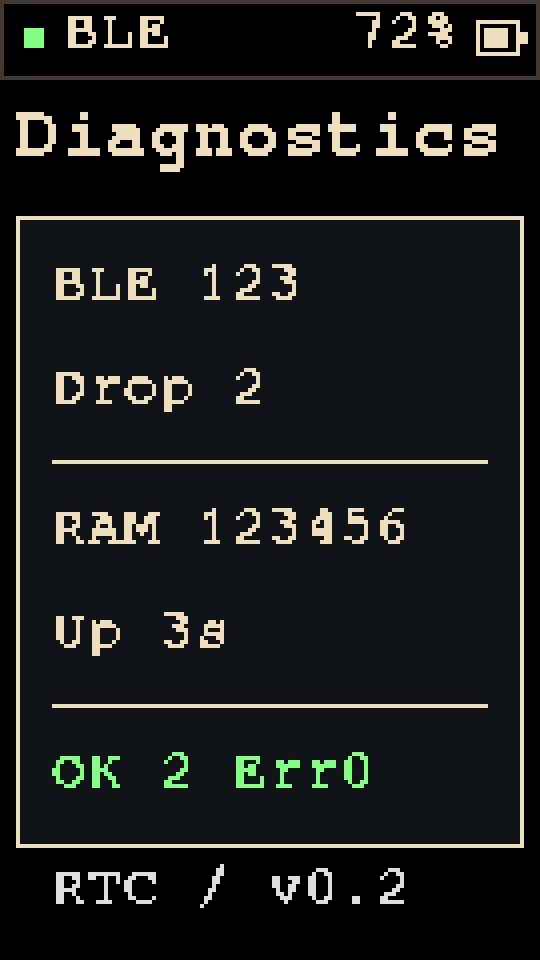
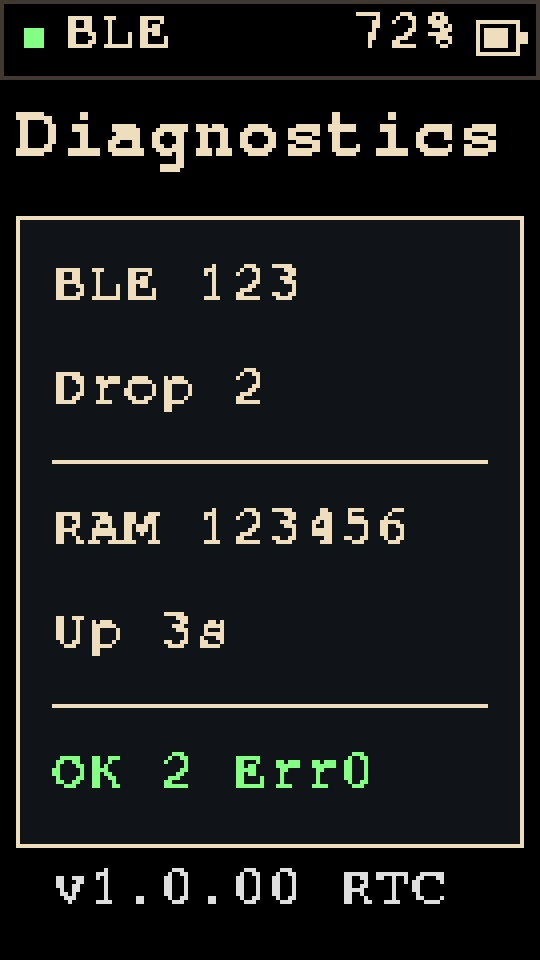
chore: release version 1.0.00
- Define the release label once for the firmware banner and Diagnostics.
- Freeze the initial release changelog and update versioned guides/previews.
- Record nineteen passing suites and the validated Plus2 build before tagging.

Changed region(s): [[0.3852, 0.9062, 0.8296, 0.9375], [0.2074, 0.9062, 0.3556, 0.9375], [0.0889, 0.9062, 0.1778, 0.9375]]

diff --git a/src/Ui.cpp b/src/Ui.cpp
@@ -11,6 +11,7 @@
 #include "Feedback.h"
 #include "MessageComposer.h"
 #include "InfoBot.h"
+#include "Version.h"
 #include <M5Unified.h>
 #include "assets/UiBitmaps.h"
 #include "assets/UiFonts.h"
@@ -447,7 +448,7 @@ void draw(const PeerTable& peers, uint32_t now) {
       if (joycAxes.valid) {
         std::snprintf(value, sizeof(value), "J:%d,%d", int(joycAxes.x), int(joycAxes.y));
         label(value, 216, green, 13,109,compact);
-      } else label(clockRtc() ? "RTC / v0.2" : "Build clock", 216, clockRtc() ? muted : amber, 13,109,compact);
+      } else label(clockRtc() ? "v" STICK_VERSION " RTC" : "Build clock", 216, clockRtc() ? muted : amber, 13,109,compact);
       break;
     default: break;
   }

diff --git a/src/main.cpp b/src/main.cpp
@@ -7,6 +7,7 @@
 #include "Transport.h"
 #include "Clock.h"
 #include "Joyc.h"
+#include "Version.h"
 
 stick::PeerTable peers;
 void setup() {
@@ -34,7 +35,7 @@ void setup() {
   }
   stick::beginUi();
   stick::beginClock();
-  Serial.println("Bitchat Stick 0.2.0 | signed BLE mesh | authenticated InfoBot");
+  Serial.println("Bitchat Stick " STICK_VERSION " | signed BLE mesh | authenticated InfoBot");
   if (!stick::beginScanner()) Serial.println("BLE: scanner initialization failed.");
   else if (!stick::beginTransport()) Serial.println("BLE: transport/identity initialization failed.");
 }

diff --git a/include/Version.h b/include/Version.h
@@ -1,0 +1,4 @@
+#pragma once
+
+// Project release label. Keep the user-selected zero-padded patch component.
+#define STICK_VERSION "1.0.00"

diff --git a/docs/10-build-deploy.md b/docs/10-build-deploy.md
@@ -1,6 +1,6 @@
 # Build and USB deployment
 
-Foundation v0.1.0. **Deployment means flashing the Plus2 over USB.** There is no web deployment, OTA, or Bluetooth updater. These instructions do not record a device upload performed by the agent.
+Firmware v1.0.00. **Deployment means flashing the Plus2 over USB.** There is no web deployment, OTA, or Bluetooth updater. Build/upload evidence is recorded separately in the device checklist.
 
 ## 1. Prepare the environment
 
@@ -108,7 +108,7 @@ Exit with `Ctrl+C` before another upload. Re-list/update the port if it changes 
 The latest source prints this startup line:
 
 ```text
-Bitchat Stick 0.2.0 | signed BLE mesh | authenticated InfoBot
+Bitchat Stick 1.0.00 | signed BLE mesh | authenticated InfoBot
 ```
 
 If the monitor starts after this line, it may not appear until the next boot. Every ten seconds the firmware logs aggregate mesh/link/authentication/queue/drop/heap/clock counters. It does not log message bodies or keys. Use Settings → Diagnostics for on-screen counters.
@@ -142,7 +142,7 @@ These generated products are ignored by Git; they are not automatically a univer
 pio pkg list -e m5stickc-plus2
 ```
 
-The local repository was initialized without a release commit/tag in the initial phase. Do not claim an available versioned rollback unless one is later created. Restore a known previous image using its matching flash/partition recipe; there is no OTA rollback.
+The local annotated release tag `v1.0.00` identifies the 1.0.00 source snapshot. Check it out in a separate worktree when rebuilding that release; rebuilding generates a new clock floor, so do not assume the resulting binary is byte-identical to an earlier upload. Restore a known previous image using its matching flash/partition recipe; there is no OTA rollback.
 
 ## 9. Troubleshooting
 
@@ -167,4 +167,15 @@ Build and native tests have passed during foundation development. The owner has 
 
 CLI references: [pio run](https://docs.platformio.org/en/latest/core/userguide/cmd_run.html), [device list](https://docs.platformio.org/en/latest/core/userguide/device/cmd_list.html), [device monitor](https://docs.platformio.org/en/latest/core/userguide/device/cmd_monitor.html).
 
-The current eleven-screen Figma sync also passed the full firmware build (42,496 bytes static RAM; 858,801 bytes application flash), all three native suites with sanitizers, software bounds checks and repository-QR decoding. This is software evidence; the revision has not been flashed by the agent.
+The historical eleven-screen foundation sync passed the full firmware build (42,496 bytes static RAM; 858,801 bytes application flash), all three native suites with sanitizers, software bounds checks and repository-QR decoding. That was software evidence for the earlier foundation snapshot, before subsequent device uploads.
+
+## Release version and tag
+
+The firmware version is defined once in `include/Version.h` and used by the boot banner and Diagnostics. Version 1.0.00 intentionally retains the selected zero-padded patch component; its Git tag is `v1.0.00`.
+
+```sh
+git show v1.0.00 --no-patch
+git worktree add --detach /tmp/bitchat-stick-v1.0.00 v1.0.00
+```
+
+The tag is annotated and local until explicitly pushed. It marks the source snapshot, not a hosted binary or completion of every device acceptance item. The existing [device checklist](13-device-checklist.md) remains applicable.

diff --git a/docs/06-testing.md b/docs/06-testing.md
@@ -161,3 +161,7 @@ In response to the requested DM and #bluetooth Write msg checks, the owner confi
 ## Manual Welcome msg — 2026-11-11
 
 Nineteen native suites and independent CryptoKit verification passed. UI coverage confirms that selecting Welcome msg copies the exact shared introduction without sending, Back restores the third method selection, Cancel transmits nothing, and an explicitly confirmed public welcome stays public. The Plus2 target compiled successfully; private/public method pickers and welcome confirmation states were also updated and visually reviewed in Figma. Actual phone reception of a manually selected welcome remains a device acceptance check.
+
+## Release 1.0.00 — 2026-11-11
+
+The first annotated release tag is `v1.0.00`. The version label is defined in `include/Version.h` and reused in the boot banner and Diagnostics. Nineteen native suites, independent CryptoKit verification, the Plus2 firmware build and software preview bounds checks passed for this source snapshot. Tagging did not flash another image or close outstanding per-platform, manual Welcome msg, range/relay or endurance checks. Earlier owner-confirmed DM recovery/public sending evidence remains recorded above.

diff --git a/docs/11-implementation-plan.md b/docs/11-implementation-plan.md
@@ -1,6 +1,6 @@
 # Implementation plan by screen and complexity
 
-Updated: **2026-11-11**. English (en-US) firmware v0.2.0. Source implementation is complete for the current seventeen-screen public-BLE, received-DM and private-composer scope. Physical acceptance is intentionally separate: use the [device checklist](13-device-checklist.md). Future product ideas are not represented as implemented.
+Updated: **2026-11-11**. English (en-US) firmware v1.0.00. Source implementation is complete for the current seventeen-screen public-BLE, received-DM and private-composer scope. Physical acceptance is intentionally separate: use the [device checklist](13-device-checklist.md). Future product ideas are not represented as implemented.
 
 ## Screen order — lowest to highest complexity
 

diff --git a/README.md b/README.md
@@ -1,6 +1,6 @@
 # Bitchat Stick — M5StickC Plus2
 
-Firmware **v0.2.0** · Default language: **English (en-US)**.
+Firmware **v1.0.00** · Default language: **English (en-US)**.
 
 A small BLE Bitchat participant for M5StickC Plus2. The firmware implements signed discovery and public chat, automatic identity-bound Noise sessions, bounded public-packet relay, and signed-public/private InfoBot commands. Other Bitchat users see the device as **Bitchat Stick** in the local `#bluetooth` context.
 

diff --git a/docs/13-device-checklist.md b/docs/13-device-checklist.md
@@ -1,4 +1,4 @@
-# Device acceptance checklist — v0.2.0
+# Device acceptance checklist — v1.0.00
 
 Updated: **2026-11-11**. Device name: **Bitchat Stick**. Supported context: public BLE **#bluetooth** and authenticated direct text messages. Record the firmware commit/image hash, both phone models/OS/app versions, power source and test time. Start with both apps in the foreground and Bluetooth permissions granted.
 

diff --git a/docs/09-getting-started.md b/docs/09-getting-started.md
@@ -1,6 +1,6 @@
 # Getting started — implementation status
 
-Firmware **v0.2.0**, English (en-US). Source implementation and physical acceptance are tracked separately in the [device checklist](13-device-checklist.md).
+Firmware **v1.0.00**, English (en-US). Source implementation and physical acceptance are tracked separately in the [device checklist](13-device-checklist.md).
 
 ## Implemented
 

diff --git a/CHANGELOG.md b/CHANGELOG.md
@@ -4,6 +4,10 @@ User-visible changes and validation evidence are recorded here in English (en-US
 
 ## Unreleased
 
+No changes recorded after 1.0.00.
+
+## 1.0.00 — 2026-11-11
+
 ### Added
 
 - Welcome msg in the composer method picker, using the shared introduction text and explicit confirmation for private or public destinations.
